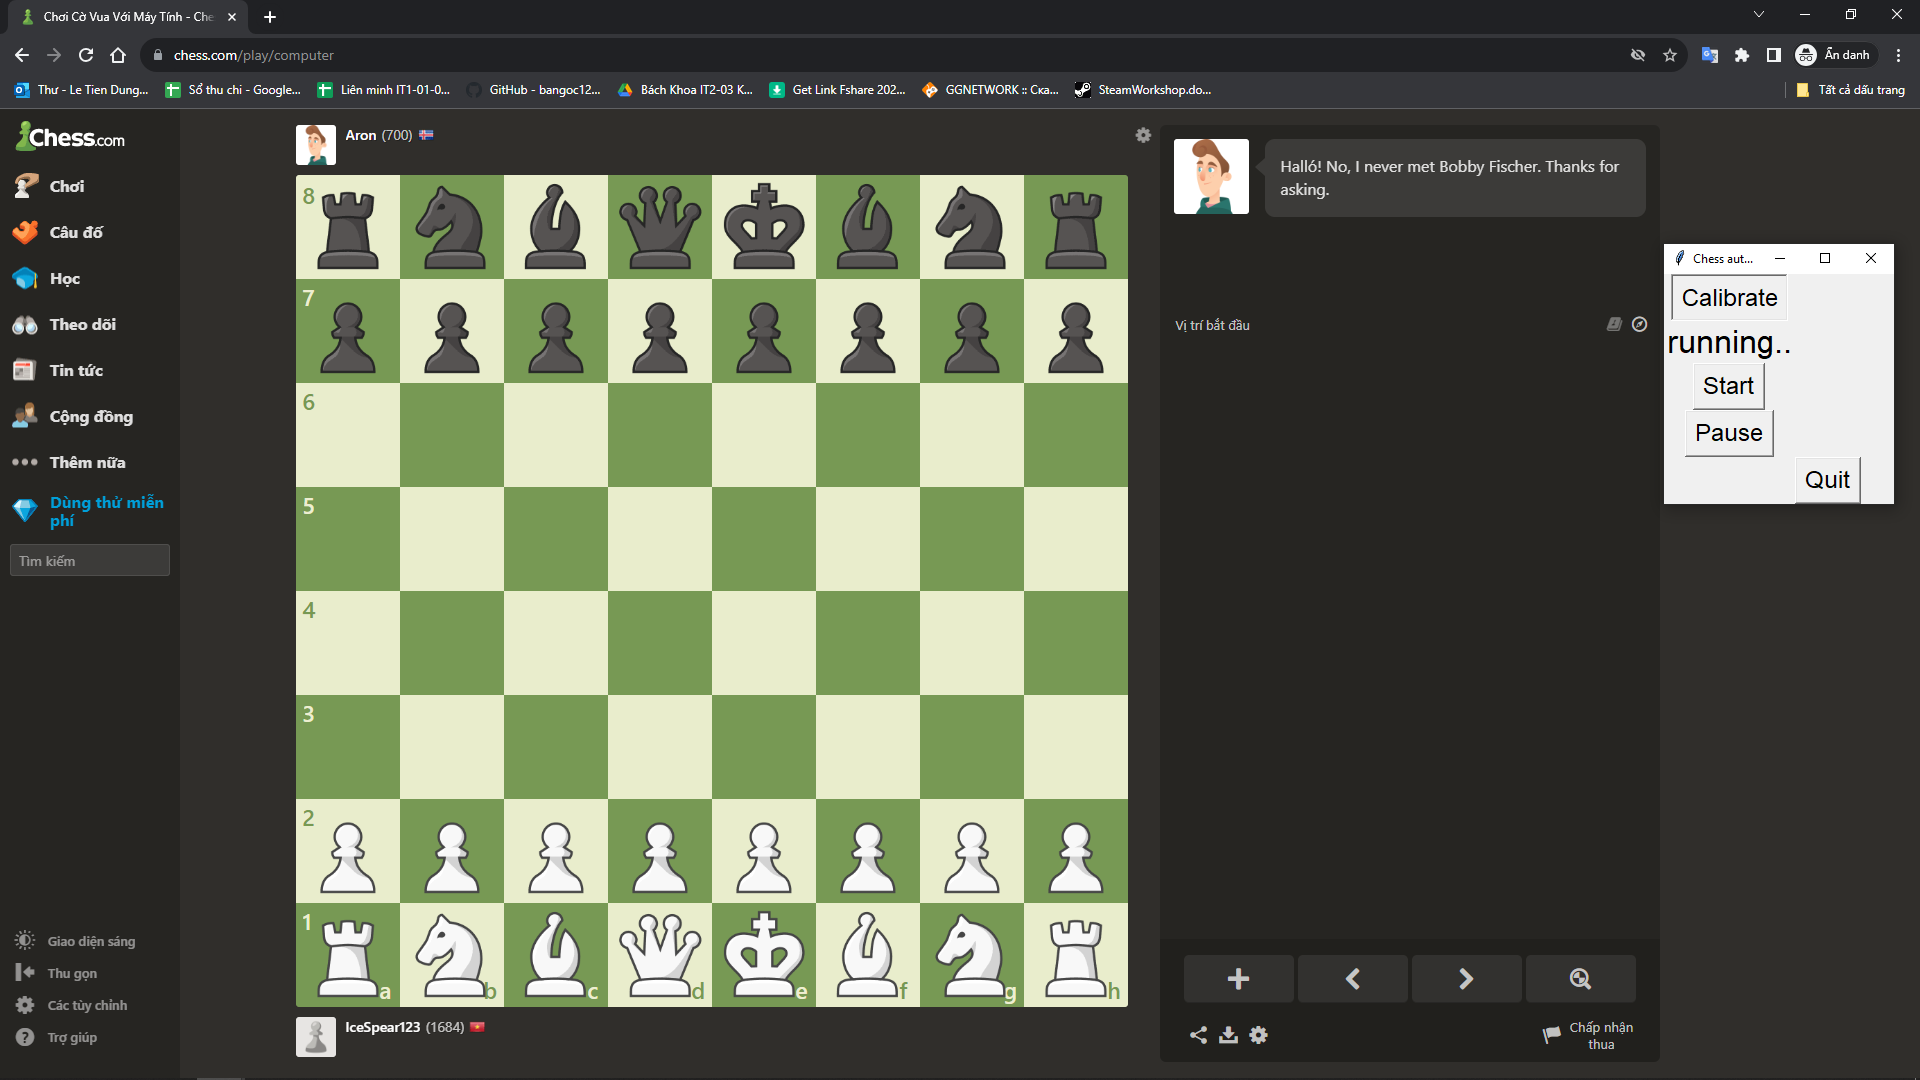
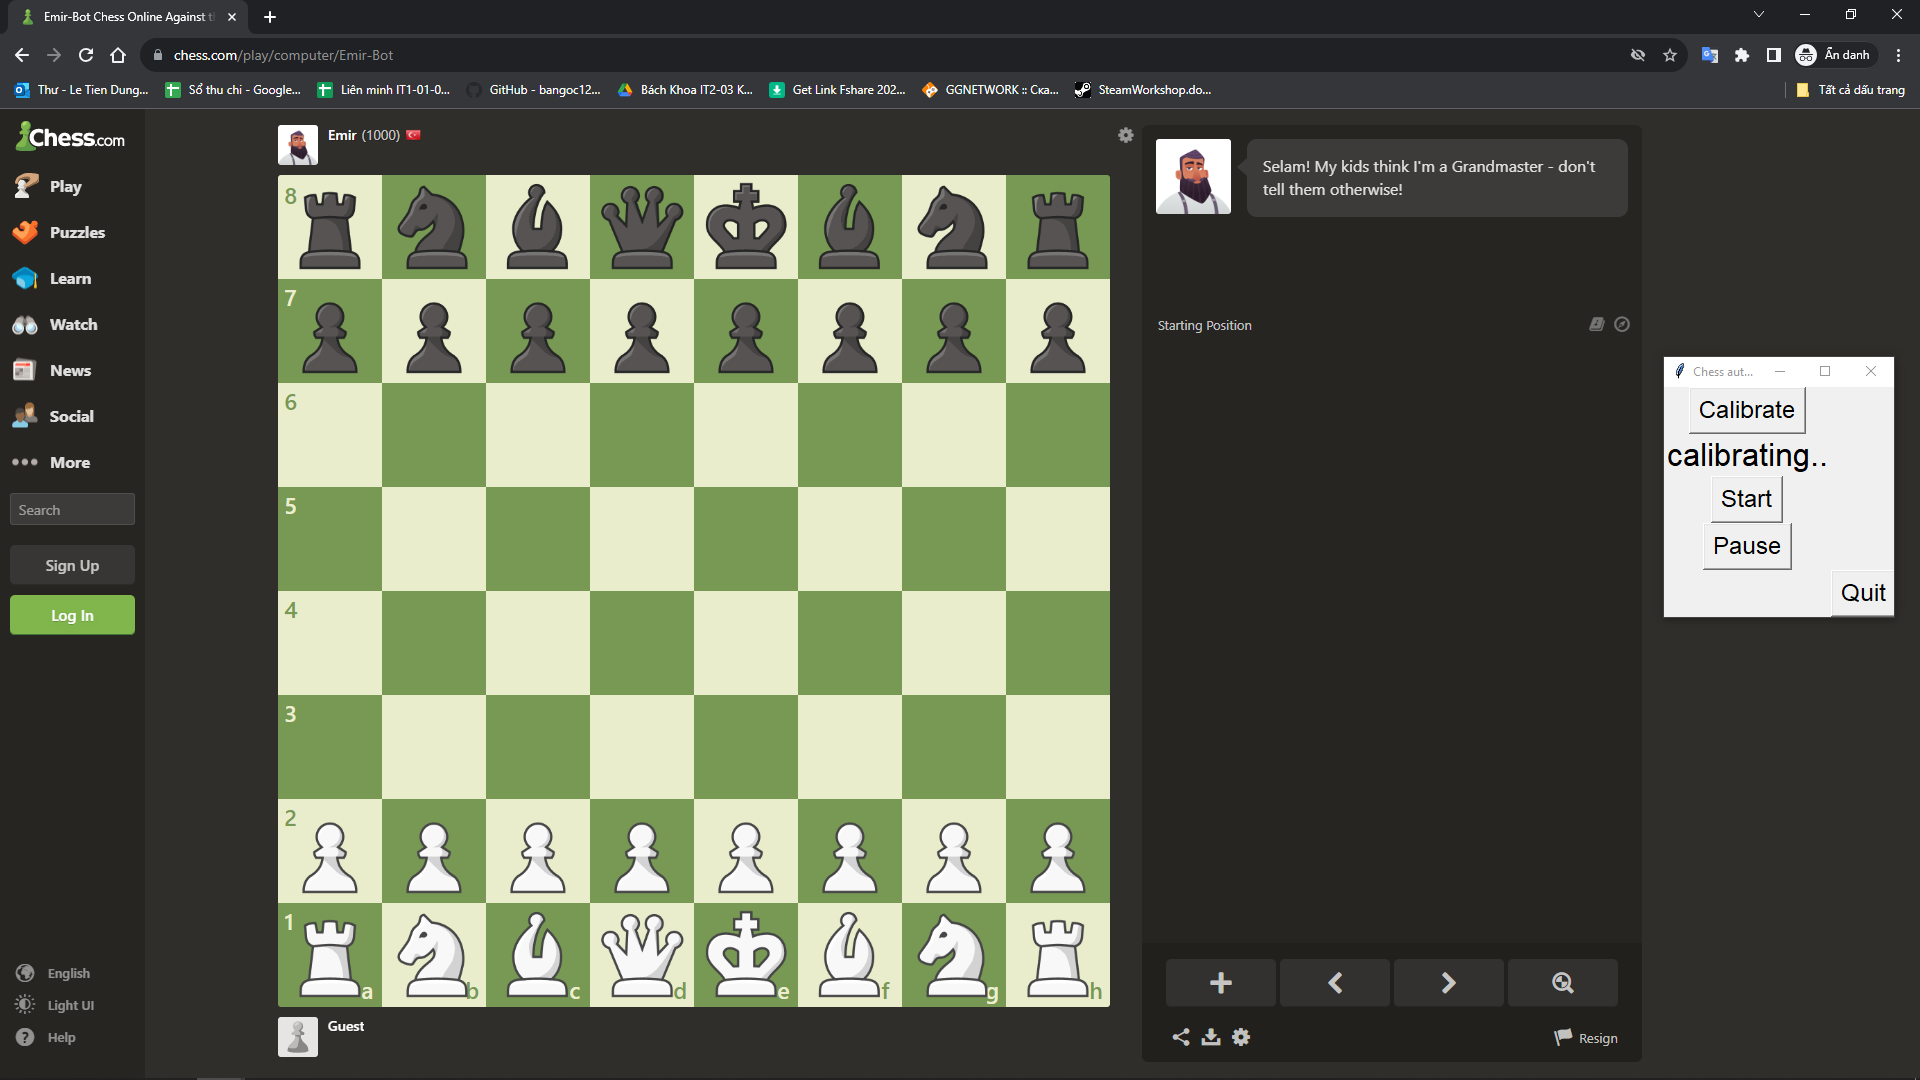
fix calibrate bugs

diff --git a/calibrate.py b/calibrate.py
@@ -1,0 +1,63 @@
+import pyautogui as pag
+import gui
+import win32api
+
+
+def check_click():
+    global h3pos
+    while True:
+        if win32api.GetKeyState(0x01)<0: #if mouse left button is pressed
+            print(pag.position())
+            h3pos = pag.position()
+            return
+ 
+def calibrate():
+    global white_square_pixel, black_square_pixel, white_pawn_pixel
+    #nguoi dung se click vao o h3(mau trang)
+    check_click()
+    CalibrateImg = pag.screenshot('Assets\\chess_com\\CalibrateScreen.png')
+    h3pixel = CalibrateImg.getpixel(h3pos)
+    #find leftmost h3
+    h3pos_tmp = h3pos
+    k = 0
+    while(CalibrateImg.getpixel((h3pos_tmp[0] - k, h3pos_tmp[1])) == h3pixel):
+        k += 1
+    h3left = h3pos_tmp[0] - k + 1
+    #find rightmost h3
+    k = 0
+    while(CalibrateImg.getpixel((h3pos_tmp[0] + k, h3pos_tmp[1])) == h3pixel):
+        k += 1
+    h3right = h3pos_tmp[0] + k - 1
+    #find topmost h3
+    k = 0
+    while(CalibrateImg.getpixel((h3pos_tmp[0], h3pos_tmp[1] - k)) == h3pixel):
+        k += 1
+    h3top = h3pos_tmp[1] - k + 1
+    #find botmost h3
+    k = 0
+    while(CalibrateImg.getpixel((h3pos_tmp[0], h3pos_tmp[1] + k)) == h3pixel):
+        k += 1
+    h3bot = h3pos_tmp[1] + k - 1
+    h3square_coord = (h3left, h3top, h3right - h3left, h3bot - h3top)
+    white_square_pixel = h3pixel
+    black_square_pixel = CalibrateImg.getpixel((h3left - 1, h3top))
+    h3squarecenter = pag.center(h3square_coord)
+    white_pawn_pixel = CalibrateImg.getpixel((h3squarecenter[0], h3squarecenter[1] + h3square_coord[3]))
+    f = open("settings.txt", "w")
+    for i in range(4):
+        f.write(str(h3square_coord[i]) + '\n')
+    for i in range(3):
+        f.write(str(white_pawn_pixel[i]) + '\n')
+    f.close()
+
+def main():
+    while gui.isEnd == False:
+        if gui.isCalibrate:
+            calibrate()
+            gui.isCalibrate = False
+            gui.update_state_text()
+
+if __name__ == '__main__':
+    main()
+
+    

diff --git a/gui.py b/gui.py
@@ -3,10 +3,12 @@ from tkinter import ttk
 import os
 
 import bot_process
+import calibrate
 
 isStart = False
 isCalibrate = False
-state_text = 'running..'
+state_text = 'waiting..'
+isEnd = False
 
 def fun():
     if isStart:
@@ -19,21 +21,24 @@ def start():
 def stop():
     pass
 
-def calibrate():
-    global state_text, isCalibrate, state_label
-    isCalibrate = not isCalibrate
+def update_state_text():
     if isCalibrate:
         state_text = 'calibrating..'
     else:
-        state_text = 'running..'
+        state_text = 'waiting..'    
     state_label.config(text=state_text)
-    bot_process.calibrate()
+
+def calibrate():
+    global state_text, isCalibrate, state_label
+    isCalibrate = not isCalibrate
+    update_state_text()
     
 
 def quit():
-    global root
+    global root, isEnd
     root.destroy()
     bot_process.isEnd = True
+    isEnd = True
 
 def main():
     global isStart, root, state_text, state_label

diff --git a/main.py b/main.py
@@ -2,6 +2,7 @@ import threading
 
 import gui
 import bot_process
+import calibrate
 
 def start_gui():
     gui.main()
@@ -9,10 +10,15 @@ def start_gui():
 def start_bot():
     bot_process.main()
 
+def start_calibrate():
+    calibrate.main()
+
 def main():
     thread1 = threading.Thread(target=start_gui)
     thread1.start()
     thread2 = threading.Thread(target=start_bot)
+    thread3 = threading.Thread(target=start_calibrate)
+    thread3.start()
     while bot_process.isEnd == False:
         if gui.isStart == True:
             thread2.start()
